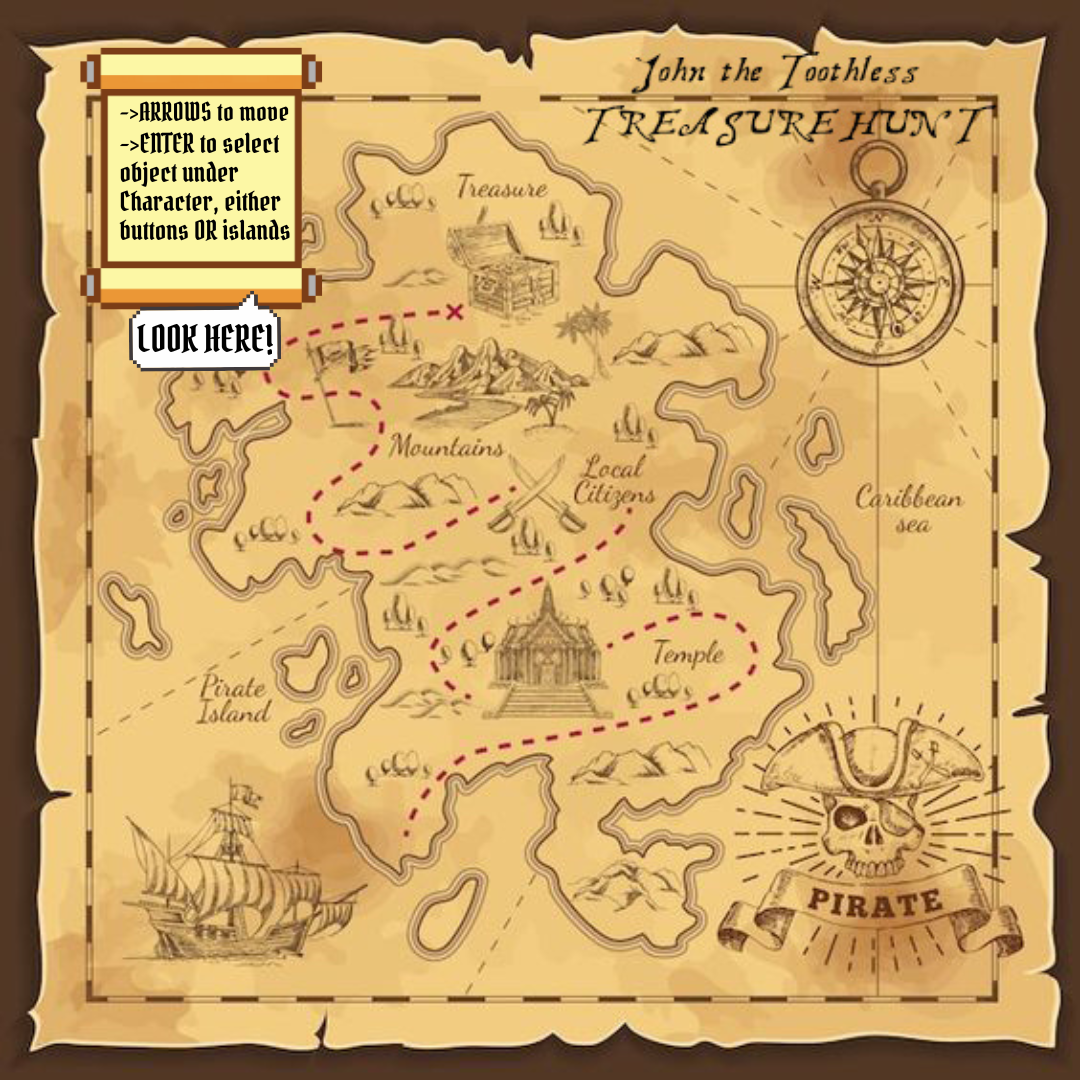
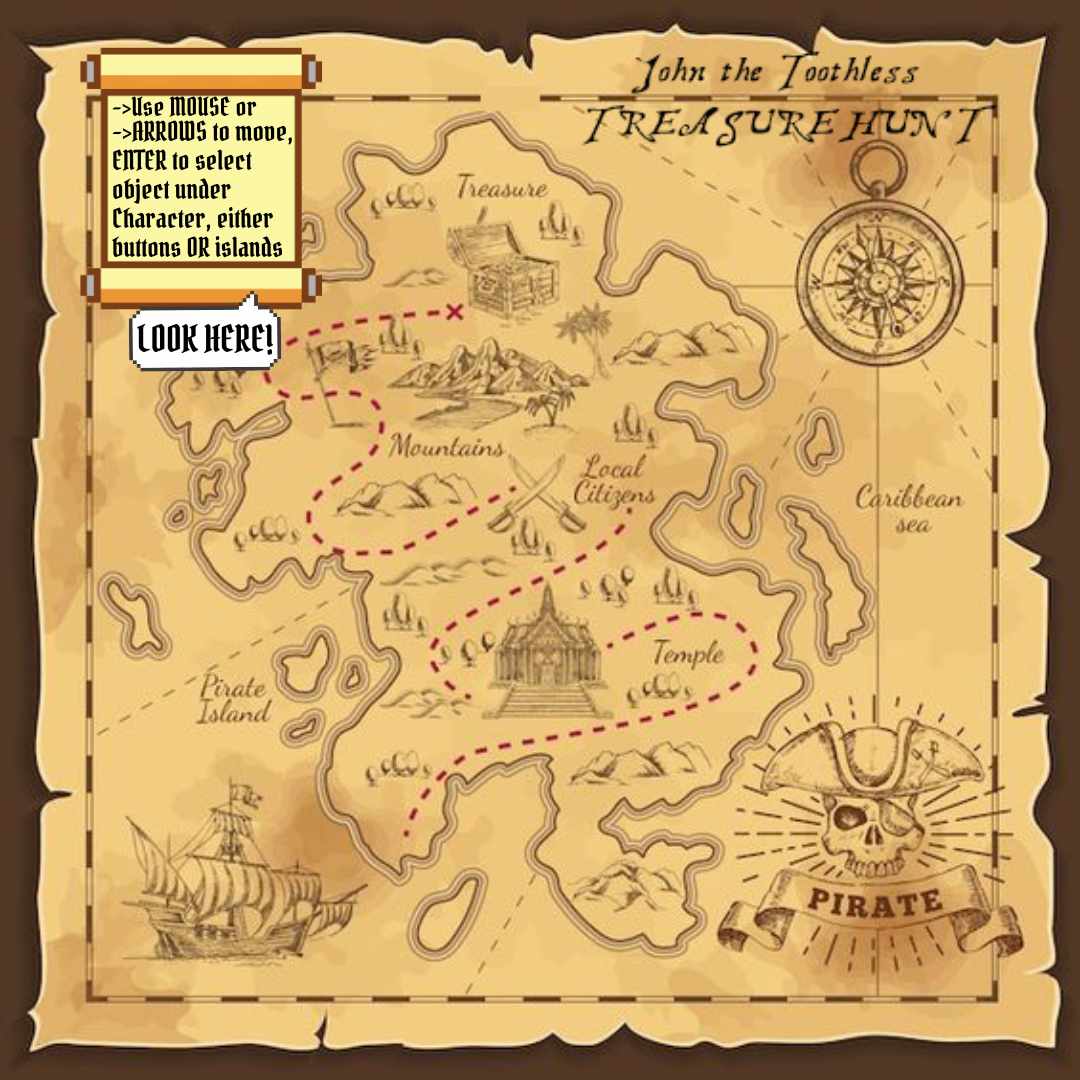
Fixed intro and character choosing
- Need to remove foundChestVid.start() from Level.checkSolution() so i can update map before submitting solution

Next:
add enemies

Changed region(s): [[0.0917, 0.0917, 0.275, 0.2444]]

diff --git a/game/playScreen.py b/game/playScreen.py
@@ -152,8 +152,9 @@ class PlayScreen:
     def submitSelectedIsland(self):
         # returns True if submission is correct, False otherwise
         # firstly island must be selected before this function is called
-        if self.levelSelected.checkSolution(self.foundChestVideo):
-            self.emergencyDrawWithFlip()  # so we can update the look of the map before submission
+        self.emergencyDrawWithFlip()  # so we can update the look of the map before submission
+        if self.levelSelected.checkSolution():
+            self.foundChestVideo.start()
             self.levelSelected.setFinishedTo(True) # this level is finished
             self.changeLevel(0) # return to level selector
             return True # good solution, return True
@@ -251,10 +252,10 @@ class Level:
         else: # right button click
             return self.archipelago.selectIslandAt(mouse_x, mouse_y)
 
-    def checkSolution(self, foundChestVideo):
+    def checkSolution(self, foundChestVideo = None): # fix this if you want to use foundChestVideo here
         if self.archipelago.isHighestSelected():
             self.levelOver = True
-            foundChestVideo.start()
+            # foundChestVideo.start()
             return True
         return False
 
